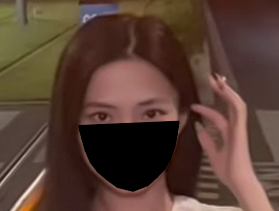
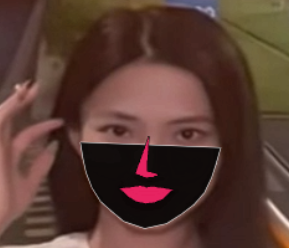
更换人脸特效

diff --git a/src/utils/specialEffects.ts b/src/utils/specialEffects.ts
@@ -8,7 +8,7 @@
  * getRightEyeBrow(): 返回一个数组，包含了右眉毛关键点的坐标。
  * getChin(): 返回一个数组，包含了下巴的关键点坐标。
  */
-import { imageLoader } from '@/utils/lzyutils'
+import { getOverlayValues, imageLoader } from '@/utils/lzyutils'
 
 export default {
   utils: {
@@ -26,14 +26,18 @@ export default {
   },
 
   dogHead: async function (ctx, getParas, sizeMulitple) {
-    const dogHead = await imageLoader.loadImage("src/assets/images/Effects/dogHead.png");
-    dogHead.src = "src/assets/images/Effects/dogHead.png";
+    const overlayValues = getOverlayValues(getParas);
+    const dogHead = await imageLoader.loadImage("src/assets/images/Effects/overlay-blue-monster.png");
+    dogHead.src = "src/assets/images/Effects/overlay-clown.png";
+    const scale = dogHead.width / dogHead.naturalWidth
+    const height = overlayValues.width * (dogHead.naturalHeight / dogHead.naturalWidth)
+
     ctx.drawImage(
       dogHead,
-      getParas.shift.x + (30 * sizeMulitple) + 20,
-      getParas.shift.y - (250 * sizeMulitple),
-      597 * sizeMulitple,
-      783 * sizeMulitple
+      overlayValues.leftOffset * scale,
+      overlayValues.topOffset * scale,
+      overlayValues.width * scale,
+      height * scale
     );
   },
   anger: async function (ctx, getParas) {
@@ -97,7 +101,6 @@ export default {
     );
   },
   cat: async function (faceContour, ctx, getParas, sizeMultiple) {
-    console.log(`lzy  faceContour:`, faceContour)
     const getLeftEye = getParas.getLeftEye();
     const nose = getParas.getNose();
     const height = nose[Math.floor((nose.length - 1) / 2)].y;
@@ -150,21 +153,49 @@ export default {
     light()
   },
   mask: function (ctx, getParas) {
+    ctx.beginPath();
     // 绘制人脸轮廓
     const faceContourData = getParas.getJawOutline();
     for (let i = 1; i < faceContourData.length - 1; i++) {
       ctx.lineTo(faceContourData[i].x, faceContourData[i].y);
     }
-    ctx.strokeStyle = "rgba(0, 0, 0, 1)"
-
+    // 路径闭合并绘制轮廓
     ctx.closePath();
+    ctx.strokeStyle = "rgba(255, 255, 255, 1)";
     ctx.stroke();
 
     // 填充绘制的区域
-    ctx.fillStyle = 'rgba(0, 0, 0, 1)';
+    ctx.fillStyle = 'rgba(0, 0, 0, 0.9)';
     ctx.fill();
+
+    //绘制嘴巴区域
     ctx.beginPath();
+    const mouth = getParas.getMouth();
+    ctx.moveTo(mouth[0].x, mouth[0].y);
+    for (let i = 1; i < mouth.length; i++) {
+      ctx.lineTo(mouth[i].x, mouth[i].y);
+    }
+    ctx.closePath();
+    ctx.strokeStyle = "rgba(0, 0, 0, 1)";
+    ctx.stroke();
+    ctx.fillStyle = 'rgba(254,35,105, 0.9)';
+    ctx.fill();
+
+    //绘制鼻子区域
+    ctx.beginPath();
+    const nose = getParas.getNose();
+    ctx.moveTo(nose[0].x, nose[0].y);
+    for (let i = 1; i < nose.length; i++) {
+      ctx.lineTo(nose[i].x, nose[i].y);
+    }
+    ctx.closePath();
+    ctx.strokeStyle = "rgba(0, 0, 0, 1)";
+    ctx.stroke();
+    ctx.fillStyle = 'rgba(254,35,105, 0.9)';
+    ctx.fill();
+
+
     // 清除剪切区域，以便绘制其他内容
     ctx.restore();
-  }
+  },
 }

diff --git a/src/pages/Photo.vue b/src/pages/Photo.vue
@@ -6,7 +6,7 @@ import { useEventListener, useStorage, useSessionStorage } from "@vueuse/core";
 
 import { ElNotification, dayjs } from "element-plus";
 import { useStore } from "@/store/store";
-import { formatDuration } from "@/utils/lzyutils";
+import { formatDuration, getOverlayValues } from "@/utils/lzyutils";
 
 import { resizeRatio, siderbar } from "@/utils/photoUtils";
 import PhotoList from "@/components/PhotoList.vue";
@@ -84,10 +84,9 @@ const initCamera = async () => {
           const detections = await detectAllFaces(
             videoElement.value!,
             new TinyFaceDetectorOptions()
-          )
-            .withFaceLandmarks()
-            .withFaceDescriptors()
-            .withFaceExpressions();
+          ).withFaceLandmarks();
+          // .withFaceDescriptors()
+          // .withFaceExpressions();
           // .withAgeAndGender();
           const resizedDetections = resizeResults(detections, {
             width,
@@ -100,11 +99,10 @@ const initCamera = async () => {
           const { width: boxWidth } = resizedDetections[0].detection.box;
           // 计算脸部在屏幕中的宽度和高度的比例
           const faceWidthToHeightRatio = boxWidth / width;
-
           ctx.clearRect(0, 0, width, height);
 
           state.handleEffects(
-            landmarks,
+            resizedDetections,
             faceContour,
             ctx,
             faceWidthToHeightRatio

diff --git a/src/utils/lzyutils.ts b/src/utils/lzyutils.ts
@@ -362,6 +362,31 @@ export function debounceRef<T>(value: T, duration: number = 1000) {
   })
 }
 
+export const getOverlayValues = landmarks => {
+  const nose = landmarks.getNose()
+  const jawline = landmarks.getJawOutline()
+
+  const jawLeft = jawline[0]
+  const jawRight = jawline.splice(-1)[0]
+  const adjacent = jawRight.x - jawLeft.x
+  const opposite = jawRight.y - jawLeft.y
+  const jawLength = Math.sqrt(Math.pow(adjacent, 2) + Math.pow(opposite, 2))
+
+  // Both of these work. The chat believes atan2 is better.
+  // I don't know why. (It doesn’t break if we divide by zero.)
+  // const angle = Math.round(Math.tan(opposite / adjacent) * 100)
+  const angle = Math.atan2(opposite, adjacent) * (180 / Math.PI)
+  const width = jawLength * 2
+
+
+  return {
+    width,
+    angle,
+    leftOffset: jawLeft.x - width * 0.24,
+    topOffset: nose[0].y - width * 0.47,
+  }
+}
+
 
 export default {
   splitArray,
@@ -384,4 +409,5 @@ export default {
   imageLoader,
   setTimeoutAsync,
   debounceRef,
+  getOverlayValues
 };

diff --git a/src/components/actionbarCompontens/Effects.vue b/src/components/actionbarCompontens/Effects.vue
@@ -9,10 +9,10 @@ import { useStore } from "@/store/store";
 const state = useStore();
 const arr = [
   { name: "cat", title: "猫耳", image: catEffects },
-  { name: "dogHead", title: "狗头", image: dogEffects },
+  { name: "dogHead", title: "搞怪面具", image: dogEffects },
   { name: "anger", title: "可爱表情", image: angerEffects },
   { name: "lightning", title: "张嘴放电", image: lightningEffects },
-  { name: "mask", title: "口罩", image: mask },
+  { name: "mask", title: "口红面纱", image: mask },
   { name: "mianju", title: "边框面具", image: mianju },
 ];
 const applyFilter = (filterName) => {

diff --git a/src/store/store.ts b/src/store/store.ts
@@ -24,7 +24,9 @@ export const useStore = defineStore('counter', () => {
    * @param {*} ctx
    * @param {*} sizeMulitple
    */
-  const handleEffects = (landmarks, faceContour, ctx, sizeMulitple) => {
+  const handleEffects = (resizedDetections, faceContour, ctx, sizeMulitple) => {
+    const landmarks = resizedDetections[0].landmarks;
+    const expressions = resizedDetections[0].expressions;
     switch (effectsData.value) {
       case 'dogHead':
         //哈士奇狗头特效

diff --git a/src/utils/worker.js b/src/utils/worker.js
@@ -335,3 +335,5 @@ function HSL2RGB(a) {
   }
   return [Math.round(255 * h), Math.round(255 * i), Math.round(255 * j)];
 }
+
+
